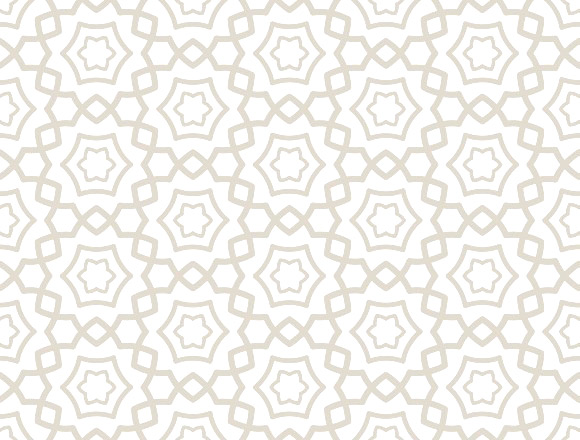
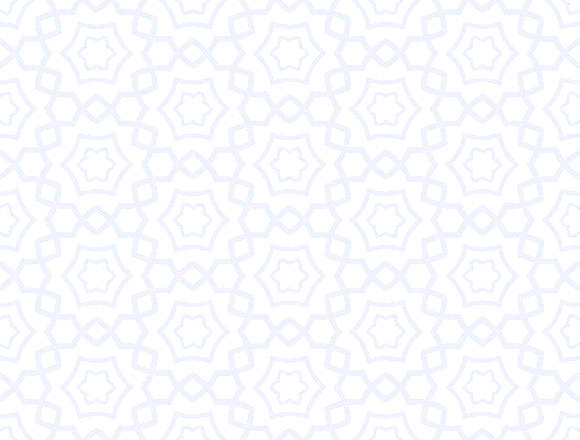
nimadirda

diff --git a/css/custom-styles.css b/css/custom-styles.css
@@ -873,7 +873,7 @@ header ul .specialView .dropdown-menu{right:-15px;
 	padding: 50px 0 20px;
 	position: relative;
 	min-height: 400px;
-	background: url(../bootstrap/img/arab-bg.png);
+	background: url(../bootstrap/img/back.jpg);
 	background-size: 10%;
 	-webkit-box-shadow: inset 0 0 13px 5px rgba(0,0,0,.15);
 	box-shadow: inset 0 0 13px 5px rgba(0,0,0,.15);
@@ -935,3 +935,229 @@ header ul .specialView .dropdown-menu{right:-15px;
 	border-left: 1px solid #56668d;
 	border-right: 1px solid #56668d;
 }
+
+/* Bluq-bluq */
+#gerb-bg {
+	width: 53px;
+	height: 53px;
+	border-radius: 50%;
+	position: fixed;
+	bottom: 30px;
+	right: 30px;
+	cursor: pointer;
+}
+
+#floating-button {
+	width: 53px;
+	height: 53px;
+	border-radius: 50%;
+	position: fixed;
+	bottom: 30px;
+	right: 30px;
+	cursor: pointer;
+}
+
+.plus {
+	color: white;
+	position: absolute;
+	top: 0;
+	display: block;
+	bottom: 0;
+	left: 0;
+	right: 0;
+	text-align: center;
+	padding: 0;
+	margin: 0;
+	line-height: 0;
+	font-size: 24px;
+	font-family: 'Roboto';
+	font-weight: 300;
+	animation: plus-out 0.3s;
+	transition: all 0.3s;
+}
+
+.plus2 {
+	position: absolute;
+	top: 0;
+	display: block;
+	bottom: 0;
+	left: 0;
+	right: 0;
+	padding: 0;
+	margin: 0;
+
+}
+
+#container-floating{
+	position: fixed;
+	width: 70px;
+	height: 70px;
+	bottom: 30px;
+	right: 30px;
+	z-index: 999;
+}
+
+
+
+#container-floating:hover{
+	height: 400px;
+	width: 90px;
+	padding: 30px;
+}
+
+#container-floating:hover .plus{
+	animation: plus-in 2.15s linear;
+	animation-fill-mode: forwards;
+	animation-iteration-count: infinite;
+}
+
+.edit{
+	position: absolute;
+	top: 0;
+	display: block;
+	bottom: 0;
+	left: 0;
+	display: block;
+	right: 0;
+	padding: 0;
+	opacity: 0;
+	margin: auto;
+	line-height: 65px;
+	transform: rotateZ(-70deg);
+	transition: all 0.3s;
+	animation: edit-out 0.3s;
+}
+
+#container-floating:hover .edit{
+	animation: edit-in 0.2s;
+	animation-delay: 0.1s;
+	animation-fill-mode: forwards;
+	animation-iteration-count: infinite;
+}
+
+
+@keyframes plus-in {
+	from {
+		transform: rotateZ(0deg);
+	}
+	to {
+		transform: rotateZ(360deg);
+	}
+}
+
+@keyframes plus-out {
+	from {
+		transform: rotateZ(180deg);
+	}
+	to {
+		transform: rotateZ(0deg);
+	}
+}
+
+.nds{
+	width: 40px;
+	height: 40px;
+	border-radius: 50%;
+	position: fixed;
+	z-index: 300;
+	transform:  scale(0);
+	cursor: pointer;
+}
+
+.nd1{
+	background: #9013FE;
+	right: 40px;
+	bottom: 120px;
+	animation-delay: 0.2s;
+	animation: bounce-out-nds 0.3s linear;
+	animation-fill-mode:  forwards;
+}
+
+.nd3{
+	background: #29C854;
+	right: 40px;
+	bottom: 180px;
+	animation-delay: 0.15s;
+	animation: bounce-out-nds 0.15s linear;
+	animation-fill-mode:  forwards;
+}
+
+.nd4{
+	background: #23A8FF;
+	right: 40px;
+	bottom: 240px;
+	animation-delay: 0.1s;
+	animation: bounce-out-nds 0.1s linear;
+	animation-fill-mode:  forwards;
+}
+
+.nd5{
+	background: #F9C700;
+	background-size: 100%;
+	right: 40px;
+	bottom: 300px;
+	animation-delay: 0.08s;
+	animation: bounce-out-nds 0.1s linear;
+	animation-fill-mode:  forwards;
+}
+
+@keyframes bounce-nds{
+	from {opacity: 0;}
+	to {opacity: 1; transform: scale(1);}
+}
+
+@keyframes bounce-out-nds{
+	from {opacity: 1; transform: scale(1);}
+	to {opacity: 0; transform: scale(0);}
+}
+
+#container-floating:hover .nds{
+
+	animation: bounce-nds 0.1s linear;
+	animation-fill-mode:  forwards;
+}
+
+#container-floating:hover .nd3{
+	animation-delay: 0.08s;
+}
+#container-floating:hover .nd4{
+	animation-delay: 0.15s;
+}
+#container-floating:hover .nd5{
+	animation-delay: 0.2s;
+}
+
+.letter{
+	font-size: 23px;
+	font-family: 'Roboto';
+	color: white;
+	position: absolute;
+	left: 0;
+	right: 0;
+	margin: 0;
+	top: 0;
+	bottom: 0;
+	text-align: center;
+	line-height: 40px;
+}
+
+.reminder{
+	position: absolute;
+	left: 0;
+	right: 0;
+	margin: auto;
+	top: 0;
+	bottom: 0;
+	line-height: 40px;
+}
+
+.profile{
+	border-radius: 50%;
+	width: 40px;
+	position: absolute;
+	top: 0;
+	bottom: 0;
+	margin: auto;
+	right: 20px;
+}
+/* Bluq-bluq */

diff --git a/index2.html b/index2.html
@@ -247,6 +247,39 @@
     </section>
 
 
+    <div id="container-floating" class="hidden-xs">
+        <a href="http://sirdaryo.uz/#">
+            <div class="nd5 nds popover1" data-container="body" data-toggle="popover" data-placement="left" data-content="Biz bilan bog`lanish" data-original-title="" title=""><img class="reminder">
+                <p class="letter"><i class="fa fa-map-marker"></i> </p>
+            </div>
+        </a>
+        <a href="http://sirdaryo.uz/#">
+            <div class="nd4 nds popover1" data-container="body" data-toggle="popover" data-placement="left" data-content="Savol va javoblar" data-original-title="" title=""><img class="reminder">
+                <p class="letter"><i class="fa fa-question"></i> </p>
+            </div>
+        </a>
+        <a href="http://sirdaryo.uz/#">
+            <div class="nd3 nds popover1" data-container="body" data-toggle="popover" data-placement="left" data-content="Virtual qabulxona" data-original-title="" title=""><img class="reminder">
+                <p class="letter"><i class="fa fa-envelope-o"></i> </p>
+            </div>
+        </a>
+        <a class="telph" href="http://sirdaryo.uz/#">
+            <div class="nd1 nds popover1" data-container="body" data-toggle="popover" data-placement="left" data-content="Ishonch telefonlari" data-original-title="" title=""><img class="reminder">
+                <p class="letter"><i class="fa fa-phone"></i> </p>
+            </div>
+        </a>
+
+        <div id="floating-button">
+            <p class="plus"><img src="bootstrap/img/floatbtn-bg.png;"> </p>
+        </div>
+        <div id="gerb-bg">
+            <p class="plus2"><img src="bootstrap/img/gerb-bg.png;"> </p>
+        </div>
+
+    </div>
+
+
+
 </div>
 <!--Footer-->
 <footer class="page-footer center-on-small-only blue-grey lighten-5 pt-0">
